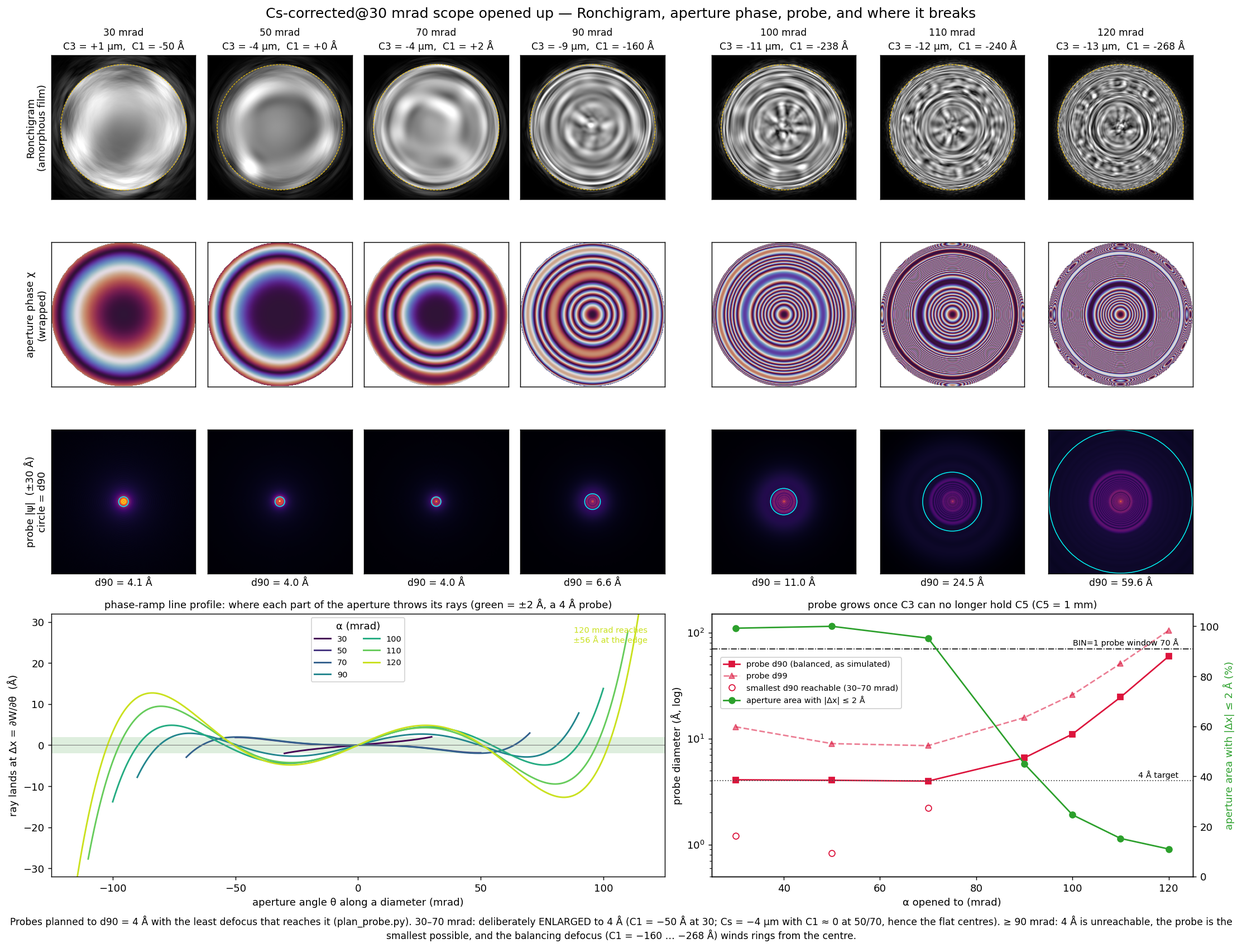
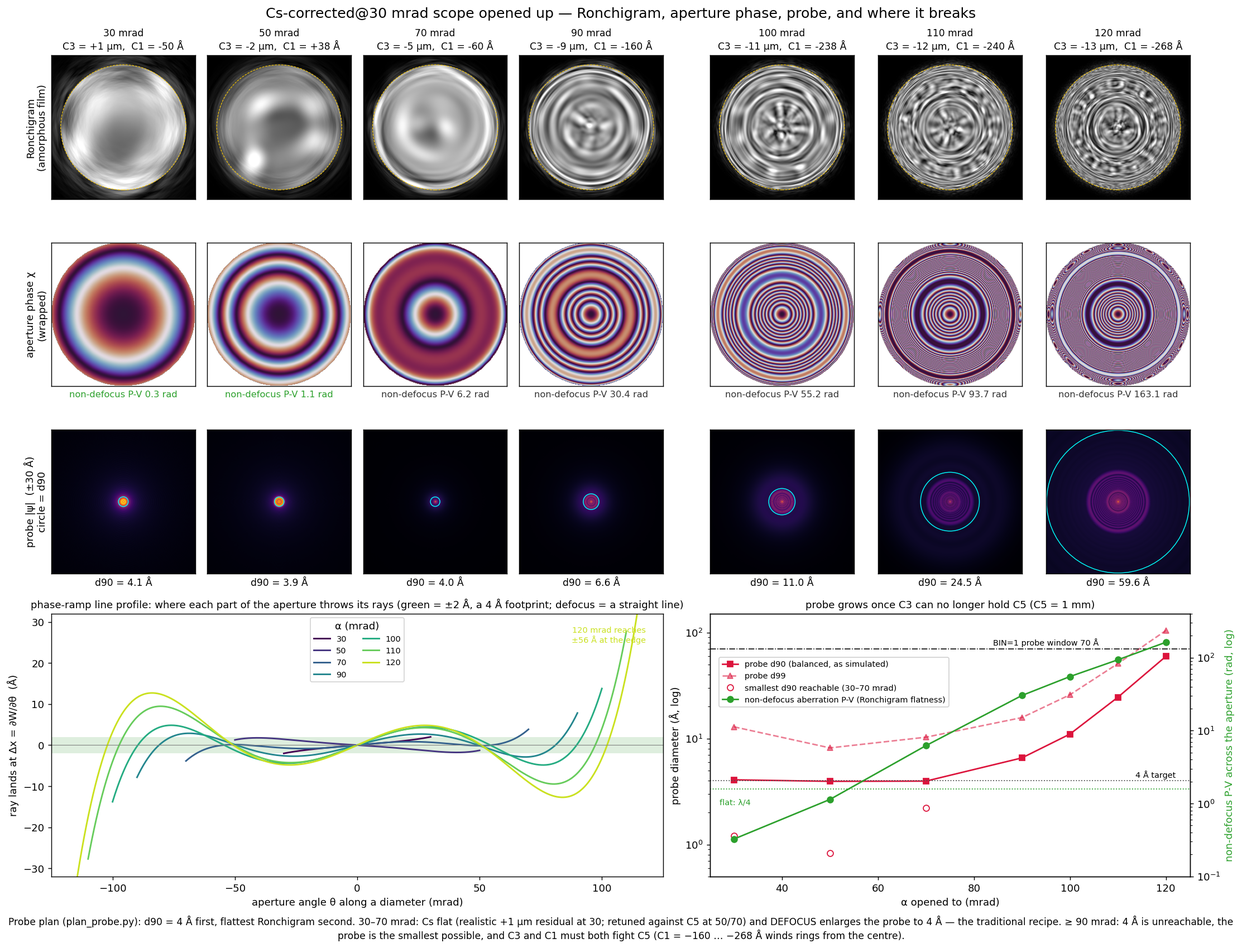
[campaign] probe plan: defocus spreads the low-alpha probes, Cs kept flat
The planner ranked every alpha by "4 A, then least defocus, then least Cs", so
at 50/70 mrad Cs (-4 um, C1 ~ 0) did the enlarging -- the opposite of how an
operator sets up a Cs-corrected probe. New objective: d90 = 4 A first, the
flattest Ronchigram second. Flatness = P-V of the NON-defocus aberration
(C3 theta^4 + C5 theta^6 minus its best-fit theta^2) across the aperture, flat
<= lambda/4. Where 4 A is reachable (the free regime, 30-70 mrad): keep Cs at a
realistic +1 um corrector residual if that is already flat, else the flattest
1 um step against C5, and spread the probe with DEFOCUS alone. Where it is not
(>= 90 mrad, the floor regime) the old search stands: C3 and C1 fight C5.

  a30  +1 um, -50 A   unchanged (already traditional)  0.33 rad, flat
  a50  -4 um,   0 A -> -2 um, +38 A                    2.34 -> 1.14 rad, flat
  a70  -4 um,  +2 A -> -5 um, -60 A                    8.23 -> 6.23 rad (flattest)
  a90-a120 byte-identical (the a110 run in flight stays valid)

Also: the remeasure box 60 -> 140 A (a120 d99 ~105 A wrapped a 60 A box; its
d90 read 46.8, converged ~60), float64 enclosed-energy cumsum (float32 over 4M
px never reached 0.99), a WINDOW flag when d99 exceeds the 70 A BIN=1 window,
flat_pv appended as the LAST tsv column (shell readers take leading columns by
position), and the a30 skip comment regenerated by the planner.

make_ronchigram_fig.py reads its probes from round_sweep.tsv and its flatness
[…]

diff --git a/campaign/plan_probe.py b/campaign/plan_probe.py
@@ -4,25 +4,63 @@
 Physics: the microscope carries a FIXED residual C5 = 1 mm (5th-order spherical, the
 uncorrectable leftover of a C3-corrector). As you open the aperture alpha, its effect
 grows as alpha^6. To keep the probe a constant ~4 Å (one unit cell) — so probe size,
-overlap and scan step are held fixed and alpha is the ONLY variable — we balance it with
-two knobs, exactly as an operator would:
-    C3  (Cs)  = COARSE knob, quantised to 1 µm   (a negative Cs bends the mid-aperture)
-    C1  (defocus) = FINE knob                     (brings the balanced disc to 4 Å)
-One alpha^2 knob (C1) cannot flatten alpha^6 across the whole aperture, hence the C3 coarse
-knob; see run_thin_aberration.sh. This script grid-searches (C3 @1µm, C1 fine) to land the
-90%-enclosed probe diameter d90 on TARGET Å, and also reports the aberration-FREE defocus
-(df_perf) that makes a matched 4 Å reference probe at each alpha.
+overlap and scan step are held fixed and alpha is the ONLY variable — the operator has two
+knobs: C3 (Cs, quantised to 1 µm) and C1 (defocus, fine).
 
-Run LOCALLY (needs abtem); commit the .tsv it writes. run_campaign.sh reads that .tsv.
+Objective, in priority order (as an operator sets up a Cs-corrected scope):
+  1. d90 = TARGET (4 Å).
+  2. the flattest Ronchigram that allows it. Flatness = peak-to-valley of the NON-DEFOCUS
+     aberration phase across the aperture (C3 theta^4 + C5 theta^6 after removing its best-fit
+     theta^2 part): a pure-defocus Ronchigram is a uniform-magnification shadow, which is what an
+     operator calls flat. "Flat" = <= pi/2 (lambda/4, Rayleigh).
+Two regimes follow:
+  * FREE (4 Å reachable; low alpha): the traditional recipe. Keep Cs at a realistic corrector
+    residual (CS_RESID, +1 µm) if that is already flat; otherwise retune Cs to the flattest
+    setting. Then spread the probe to 4 Å with DEFOCUS alone.
+  * FLOOR (4 Å unreachable; high alpha): no freedom -- C3 and C1 must both fight C5 for the
+    smallest probe. Grid-search (C3 @1µm around the ray-edge cancel, C1 fine), rank by d90.
+The pre-2026-09-11 planner used the FLOOR ranking everywhere with a least-defocus tie-break,
+which at 50/70 mrad made Cs (-4 µm, C1 ~ 0) do the enlarging -- the opposite of the recipe.
+Also reports the aberration-FREE defocus (df_perf) for a matched 4 Å reference probe.
+
+Run LOCALLY (needs abtem); commit the .tsv it writes. run_campaign.sh / run_thin_atomfind.sh
+read it by leading column position; flat_pv is appended last.
     ~/hyperspy-bundle/bin/python campaign/plan_probe.py
 """
 import argparse, numpy as np, sys
 
+LAM = 0.0196877              # 300 keV electron wavelength [Å]
+CS_RESID_UM = 1              # realistic Cs-corrector residual (µm): kept if it is already flat
+FLAT_TOL = np.pi / 2         # non-defocus phase P-V (rad) counted as a flat Ronchigram (lambda/4)
+BIN1_WINDOW = 1426 * 0.0492  # BIN=1 recon probe window (Å); a probe with d99 beyond it cannot fit
+# rows written commented-out, with the reason (kept here so a re-plan does not lose it)
+SKIP = {30: ["a030 SKIPPED: at 30 mrad the BF disc fills only ~15% of the 200 mrad detector -> the recon is",
+             "noise-dominated even with the KNOWN probe (lattice peak/bg 2.6 vs 100+ at >=50), and NL=1 carries",
+             "no depth info. Fixing it needs a low-alpha detector crop, not a probe change. Uncomment to include."]}
+
+
+def nondefocus_pv(alpha, C3, C5):
+    """Peak-to-valley (rad) of the aberration phase across the aperture after removing its
+    best-fit piston + defocus (theta^2) part, area-weighted. Independent of the C1 applied."""
+    th = np.linspace(0, alpha / 1000.0, 600); sw = np.sqrt(th)
+    W = C3 * th**4 / 4 + C5 * th**6 / 6
+    A = np.c_[np.ones_like(th), th**2]
+    coef = np.linalg.lstsq(A * sw[:, None], W * sw, rcond=None)[0]
+    r = W - A @ coef
+    return 2 * np.pi / LAM * (r.max() - r.min())
+
+
+def flat_c3_um(alpha, C5):
+    """The FREE-regime Cs: the realistic residual if already flat, else the flattest 1 µm step."""
+    if nondefocus_pv(alpha, CS_RESID_UM * 1e4, C5) <= FLAT_TOL:
+        return CS_RESID_UM
+    return min(range(-20, 6), key=lambda c: nondefocus_pv(alpha, c * 1e4, C5))
+
 def sizes(P, ext):
-    I = np.abs(P)**2; dx = ext/P.shape[0]
-    In = I/I.sum(); c = np.unravel_index(I.argmax(), I.shape); yy,xx = np.indices(I.shape)
+    I = (np.abs(P)**2).astype(np.float64); dx = ext/P.shape[0]   # float64: a float32 cumsum over
+    In = I/I.sum(); c = np.unravel_index(I.argmax(), I.shape); yy,xx = np.indices(I.shape)  # 4M px never reaches 0.99
     r = np.hypot(yy-c[0], xx-c[1])*dx; o = np.argsort(r.ravel()); cs = np.cumsum(In.ravel()[o])
-    d = lambda q: 2*r.ravel()[o][np.searchsorted(cs, q)]
+    d = lambda q: 2*r.ravel()[o][min(np.searchsorted(cs, q), cs.size - 1)]
     fwhm = 2*np.sqrt((I >= 0.5*I.max()).sum()*dx*dx/np.pi)
     return fwhm, d(0.5), d(0.9), d(0.99)
 
@@ -48,9 +86,11 @@ def plan(alphas, C5, target, thick, out):
     import abtem
     try: abtem.config.set({"local_diagnostics.progress_bar": False})
     except Exception: pass
-    LAM = 0.0196877                   # 300 keV electron wavelength [Å]; depth res = LAM/alpha^2
+    # depth res = LAM/alpha^2
     EXT_S, N_S = 30.0, 512            # fast search grid (maxk 8.5 A^-1 covers <=168 mrad)
-    EXT_M, N_M = 60.0, 1024           # high-quality remeasure of the winner (captures tails)
+    # remeasure box: 140 Å (was 60) -- a110's d99 is 51 Å and a120's ~105 Å; a 60 Å box wraps the
+    # tails and under-reports both (a120 d90 read 46.8 Å, converged ~60 Å)
+    EXT_M, N_M = 140.0, 2048
     rows = []
     for a in alphas:
         edge = round(-C5*(a/1000.0)**2 / 1e4)                 # ray-edge C3 cancel, in µm
@@ -66,13 +106,28 @@ def plan(alphas, C5, target, thick, out):
             if pick is None or key < pick[0]:
                 pick = (key, c3um, C1, d90)
         c3um, C1 = pick[1], pick[2]
+        regime = "floor"
+        if abs(pick[3] - target) < 0.6:
+            # FREE regime: 4 Å is reachable, so use the traditional recipe -- Cs flat (realistic
+            # residual if possible), DEFOCUS spreads the probe. Falls back to the pick if the flat
+            # Cs cannot reach the target (never seen, but the target is the primary objective).
+            fc3 = flat_c3_um(a, C5)
+            fC1, fd90 = best_c1(abtem, a, fc3 * 1e4, C5, target, EXT_S, N_S)
+            if abs(fd90 - target) < 0.6:
+                c3um, C1, regime = fc3, fC1, "free"
+        pv = nondefocus_pv(a, c3um * 1e4, C5)
         # high-quality remeasure of the chosen aberrated probe + the matched perfect probe
         fw,d50,d90,d99 = sizes(build(abtem, a, c3um*1e4, C1, C5, EXT_M, N_M), EXT_M)
         # aberration-free 4 Å reference: defocus only, C3=C5=0
         dfp, dfp_d90 = best_c1(abtem, a, 0.0, 0.0, target, EXT_S, N_S)
         # window sizing: BIN4=17.5 Å, BIN2=35 Å, BIN1=70 Å real-space window
         binf = 4 if d99 < 15 else (2 if d99 < 31 else 1)
-        note = "ok" if abs(d90-target) < 0.6 else "FLOOR>%.1f" % d90
+        if abs(d90-target) < 0.6:
+            note = "ok:" + ("flat" if pv <= FLAT_TOL else "flattest") if regime == "free" else "ok"
+        else:
+            note = "FLOOR>%.1f" % d90
+        if d99 > BIN1_WINDOW:
+            note += "|WINDOW:d99>%.0fA" % BIN1_WINDOW
         # Depth sampling: recon at NL layers = Nyquist of the depth resolution LAM/alpha^2
         # (slice = depthres/2). The sim slab is a fixed 0.9 A (< the ~1.94 A plane spacing, run_campaign
         # SLICE default) so the GROUND TRUTH always resolves the planes and only alpha + NL decide
@@ -81,17 +136,24 @@ def plan(alphas, C5, target, thick, out):
         nl = max(1, round(thick / (depthres/2.0)))
         rows.append(dict(label="a%03d"%a, alpha=a, c5=C5, c3=c3um*1e4, c1=float(C1),
                          df_perf=float(dfp), bin=binf, nl=nl, aber_json="-",
-                         d50=d50, d90=d90, d99=d99, note=note))
-        print(f"  alpha={a:3d}  C3={c3um:+3d}um  C1={C1:+4.0f}A  d90={d90:.1f} BIN={binf}  "
-              f"depthres={depthres:.1f}A -> NL={nl} (dz {thick/nl:.2f}A)  [{note}]", flush=True)
-    # write tsv
-    cols = ["label","alpha","c5","c3","c1","df_perf","bin","nl","aber_json","d50","d90","d99","note"]
+                         d50=d50, d90=d90, d99=d99, note=note, flat_pv=round(pv, 2)))
+        print(f"  alpha={a:3d}  C3={c3um:+3d}um  C1={C1:+4.0f}A  d90={d90:.1f} d99={d99:.1f} BIN={binf}  "
+              f"non-defocus P-V {pv:.2f} rad  [{regime}; {note}]", flush=True)
+    # write tsv (flat_pv LAST: the shell readers take leading columns by position)
+    cols = ["label","alpha","c5","c3","c1","df_perf","bin","nl","aber_json","d50","d90","d99","note","flat_pv"]
     with open(out, "w") as f:
         f.write("# round alpha-sweep probe plan | C5=%.3g A (1mm) | target d90=%.1f A\n" % (C5, target))
         f.write("# alpha=semiangle(mrad) c3=C30/Cs(A) c1=defocus(A) df_perf=aberr-free 4A defocus(A)\n")
+        f.write("# low alpha (note ok:flat/ok:flattest): Cs flat (residual +%d um if flat), DEFOCUS spreads to 4 A;\n"
+                "# FLOOR: 4 A unreachable, C3+C1 fight C5. flat_pv = non-defocus aberration P-V (rad), flat <= pi/2\n"
+                % CS_RESID_UM)
         f.write("\t".join(cols)+"\n")
         for r in rows:
-            f.write("\t".join(str(r[c]) for c in cols)+"\n")
+            line = "\t".join(str(r[c]) for c in cols)
+            if r["alpha"] in SKIP:
+                f.write("".join(f"# {s}\n" for s in SKIP[r["alpha"]]) + "#" + line + "\n")
+            else:
+                f.write(line + "\n")
     print("wrote", out)
 
 if __name__ == "__main__":

diff --git a/analysis/make_ronchigram_fig.py b/analysis/make_ronchigram_fig.py
@@ -9,12 +9,12 @@ aperture edge at 50 mrad, ~1600 rad at 120); the operator retunes Cs (C3) + defo
 (C3, C1) of campaign/round_sweep.tsv -- to keep the PROBE compact (the criterion ptycho needs; it
 recovers the phase itself, so a flat Scherzer chi is not required).
 
-Probe plan (campaign/plan_probe.py): every alpha is balanced to d90 = 4 A, choosing the LEAST
-defocus that achieves it. So at 30 mrad C1 = -50 A enlarges the probe; at 50/70 mrad C1 ~ 0 and
-Cs = -4 um enlarges it (the smallest reachable probe is far smaller, see the bottom-right panel)
--- chi then starts as theta^4, which is why those Ronchigrams have large flat centres. From 90 mrad
-4 A is unreachable: the probe is the smallest possible and needs C1 = -160..-268 A to balance C3
-against C5 -- a theta^2 term that winds phase from the very centre (the bullseye rings).
+Probe plan (campaign/plan_probe.py, read from round_sweep.tsv): d90 = 4 A first, the flattest
+Ronchigram second. Where 4 A is reachable (30-70 mrad) that is the traditional recipe: Cs flat --
+the realistic +1 um corrector residual at 30, retuned to the flattest step against C5 at 50/70 --
+and DEFOCUS spreads the probe to 4 A (the smallest reachable probe is far smaller; bottom right).
+From 90 mrad 4 A is unreachable: the probe is the smallest possible and needs C1 = -160..-268 A to
+balance C3 against C5 -- a theta^2 term that winds phase from the very centre (the bullseye rings).
 
 Rows, one column per alpha:
   1. simulated Ronchigram -- probe x thin amorphous film, far-field intensity (what the operator
@@ -26,8 +26,9 @@ Bottom:
            the ray through aperture angle theta lands. The probe is compact only where rays land
            within ~+-2 A (the 4 A target band).
   right -- probe d90 and d99 vs alpha (converged 140 A box), the 4 A target, the smallest probe
-           reachable at 30-70 mrad, the 70 A BIN=1 probe window, and the fraction of the aperture
-           whose rays land inside +-2 A.
+           reachable at 30-70 mrad, the 70 A BIN=1 probe window, and Ronchigram flatness: the
+           NON-defocus aberration P-V across the aperture (plan_probe.nondefocus_pv), flat <= lambda/4.
+  Each chi panel carries its non-defocus P-V (green = flat).
 
 History: the pre-2026-09-11 version built probes in a 30 A box (d90 20.7/26.1 A at 110/120 mrad,
 really 24.5 / >47 A) and plotted a "flat-to-pi/4 aperture" measured against a running minimum,
@@ -41,9 +42,34 @@ from matplotlib.patches import Circle
 from scipy.ndimage import gaussian_filter
 
 LAM = 0.0196877; C5 = 1e7                       # 300 keV wavelength [A]; fixed 5th-order residual (1 mm)
-# (alpha_mrad, C3_A, C1_A) balanced probes -- from campaign/round_sweep.tsv (a30 = its commented row)
-PTS = [(30, 1e4, -50), (50, -4e4, 0), (70, -4e4, 2), (90, -9e4, -160), (100, -11e4, -238),
-       (110, -12e4, -240), (120, -13e4, -268)]
+TSV = os.path.join(os.path.dirname(os.path.abspath(__file__)), "..", "campaign", "round_sweep.tsv")
+
+
+def load_plan(path=TSV):
+    """(alpha_mrad, C3_A, C1_A) per planned probe, read from the planner's tsv -- including its
+    commented-out rows (a30), which are skipped by the campaigns but belong on this figure.
+    Read rather than hard-coded so the figure can never drift from the probes actually simulated."""
+    import re
+    pts = []
+    for line in open(path):
+        if re.match(r"#?a\d{3}\t", line):
+            f = line.lstrip("#").rstrip("\n").split("\t")
+            pts.append((int(f[1]), float(f[3]), float(f[4])))
+    return sorted(pts)
+
+
+PTS = load_plan()
+
+
+def _planner():
+    """campaign/plan_probe.py, for its flatness metric -- shared so figure and plan cannot disagree."""
+    import importlib.util
+    p = os.path.join(os.path.dirname(os.path.abspath(__file__)), "..", "campaign", "plan_probe.py")
+    s = importlib.util.spec_from_file_location("plan_probe", p); m = importlib.util.module_from_spec(s)
+    s.loader.exec_module(m); return m
+
+
+PLAN = _planner()
 L_BOX, N_BOX = 140.0, 2048                      # converged probe box: holds a110's d99 (51 A) with margin
 WINDOW_BIN1 = 1426 * 0.0492                     # BIN=1 recon probe window (Ndp x dx) ~ 70 A
 BAND = 2.0                                      # +-A: rays landing inside make a ~4 A probe
@@ -97,11 +123,6 @@ def ronchigram(P, L, a, rng):
     return np.sqrt(R[c - h:c + h, c - h:c + h]), h * px
 
 
-def aperture_fraction(a, C3, C1):
-    th = np.linspace(0, a / 1000, 4000); m = np.abs(ray_dx(C3, C1, th)) <= BAND
-    return (th * m).sum() / th.sum()                      # area-weighted (annulus ~ theta dtheta)
-
-
 def main():
     try: abtem.config.set({"local_diagnostics.progress_bar": False})
     except Exception: pass
@@ -127,6 +148,9 @@ def main():
         ax = fig.add_subplot(gs[1, j])
         ax.imshow(np.angle(np.exp(1j * ch)), cmap="twilight", vmin=-np.pi, vmax=np.pi, extent=[-a, a, -a, a])
         ax.set_xticks([]); ax.set_yticks([])
+        pv = PLAN.nondefocus_pv(a, C3, C5)
+        ax.set_xlabel(f"non-defocus P-V {pv:.1f} rad", fontsize=9,
+                      color="tab:green" if pv <= PLAN.FLAT_TOL else "0.2")
         if j == 0: ax.set_ylabel("aperture phase χ\n(wrapped)", fontsize=10)
 
         ax = fig.add_subplot(gs[2, j]); h = int(round(30 / (L_BOX / N_BOX))); c = np.unravel_index(np.abs(P).argmax(), P.shape)
@@ -148,7 +172,7 @@ def main():
     axr.set_xlabel("aperture angle θ along a diameter (mrad)")
     axr.set_ylabel("ray lands at Δx = ∂W/∂θ  (Å)")
     axr.set_title("phase-ramp line profile: where each part of the aperture throws its rays "
-                  f"(green = ±{BAND:.0f} Å, a 4 Å probe)", fontsize=10)
+                  f"(green = ±{BAND:.0f} Å, a 4 Å footprint; defocus = a straight line)", fontsize=10)
     axr.legend(title="α (mrad)", fontsize=8, ncol=2, loc="upper center")
     axr.text(118, 29, "120 mrad reaches\n±56 Å at the edge", ha="right", va="top", fontsize=8, color=cols[-1])
 
@@ -162,28 +186,33 @@ def main():
                  label="smallest d90 reachable (30–70 mrad)")
     axs.axhline(4.0, color="0.3", ls=":", lw=1); axs.text(122, 4.3, "4 Å target", ha="right", fontsize=8)
     axs.axhline(WINDOW_BIN1, color="k", ls="-.", lw=0.9)
-    axs.text(122, WINDOW_BIN1 * 1.08, f"BIN=1 probe window {WINDOW_BIN1:.0f} Å", ha="right", fontsize=8)
+    axs.text(84, WINDOW_BIN1 * 1.08, f"BIN=1 probe window {WINDOW_BIN1:.0f} Å", ha="left", fontsize=8)
     axs.set_ylim(0.5, 150); axs.set_xlim(25, 125)
     axs.set_xlabel("α opened to (mrad)"); axs.set_ylabel("probe diameter (Å, log)")
+    # Ronchigram flatness = the NON-defocus aberration (defocus only changes the shadow magnification
+    # uniformly), the quantity the planner optimises. (An "aperture within +-2 A" measure would
+    # penalise the intended defocus spreading itself.)
     ax2 = axs.twinx()
-    ax2.plot(al, [100 * aperture_fraction(*p) for p in PTS], "o-", color="tab:green",
-             label=f"aperture area with |Δx| ≤ {BAND:.0f} Å")
-    ax2.set_ylim(0, 105); ax2.set_ylabel(f"aperture area with |Δx| ≤ {BAND:.0f} Å (%)", color="tab:green")
+    ax2.semilogy(al, [PLAN.nondefocus_pv(*p[:2], C5) for p in PTS], "o-", color="tab:green",
+                 label="non-defocus aberration P-V (Ronchigram flatness)")
+    ax2.axhline(PLAN.FLAT_TOL, color="tab:green", ls=":", lw=1)
+    ax2.text(27, PLAN.FLAT_TOL * 0.62, "flat: λ/4", color="tab:green", fontsize=8)
+    ax2.set_ylim(0.1, 400); ax2.set_ylabel("non-defocus P-V across the aperture (rad, log)", color="tab:green")
     h1, l1 = axs.get_legend_handles_labels(); h2, l2 = ax2.get_legend_handles_labels()
     axs.legend(h1 + h2, l1 + l2, fontsize=8, loc="upper left", bbox_to_anchor=(0.01, 0.85), framealpha=0.85)
     axs.set_title("probe grows once C3 can no longer hold C5 (C5 = 1 mm)", fontsize=10)
     for a in small:
         print(f"a{a}: smallest reachable d90 {small[a][0]:.2f} A at C3 {small[a][1]/1e4:+.0f} um, C1 {small[a][2]:+d} A")
     for (a, C3, C1), d90, d99 in zip(PTS, d90s, d99s):
-        print(f"a{a}: d90 {d90:.1f} A, d99 {d99:.1f} A, aperture within +-{BAND:.0f} A: {100*aperture_fraction(a, C3, C1):.0f}%")
+        print(f"a{a}: d90 {d90:.1f} A, d99 {d99:.1f} A, non-defocus P-V {PLAN.nondefocus_pv(a, C3, C5):.2f} rad")
 
     fig.suptitle("Cs-corrected@30 mrad scope opened up — Ronchigram, aperture phase, probe, "
                  "and where it breaks", fontsize=14)
     fig.text(0.5, -0.005,
-             "Probes planned to d90 = 4 Å with the least defocus that reaches it (plan_probe.py). 30–70 mrad: "
-             "deliberately ENLARGED to 4 Å (C1 = −50 Å at 30; Cs = −4 µm with C1 ≈ 0 at 50/70, hence the flat "
-             "centres). ≥ 90 mrad: 4 Å is unreachable, the probe is the smallest possible, and the balancing "
-             "defocus (C1 = −160 … −268 Å) winds rings from the centre.",
+             "Probe plan (plan_probe.py): d90 = 4 Å first, flattest Ronchigram second. 30–70 mrad: Cs flat "
+             "(realistic +1 µm residual at 30; retuned against C5 at 50/70) and DEFOCUS enlarges the probe to 4 Å — "
+             "the traditional recipe. ≥ 90 mrad: 4 Å is unreachable, the probe is the smallest possible, and C3 "
+             "and C1 must both fight C5 (C1 = −160 … −268 Å winds rings from the centre).",
              ha="center", va="top", fontsize=9.5, wrap=True)
     p = os.path.join(week_dir("figs"), "ronchigram_evolution.png")
     fig.savefig(p, dpi=130, bbox_inches="tight"); print("wrote", p)

diff --git a/aberration_experiment/HANDOVER.md b/aberration_experiment/HANDOVER.md
@@ -28,12 +28,26 @@ C1(defocus) — the `campaign/round_sweep.tsv` balance — to keep the probe com
 - **Ronchigram/probe evolution**: `figs/2026-W37/ronchigram_evolution.png` (rebuilt 2026-09-11:
   simulated Ronchigrams, wrapped χ, probe, phase-ramp profiles Δx = ∂W/∂θ, probe size vs α). Probe
   d90 held at the 4 Å TARGET to 70 mrad, then 6.6 / 11.0 / 24.5 / ~60 Å at 90/100/110/120 (converged
-  140 Å box — the old figure's 21/26 Å at 110/120 came from a 30 Å box). Aperture area whose rays
-  land within ±2 Å: 99/100/95% → 45/25/15/11%. **30–70 mrad probes are deliberately ENLARGED** to
-  4 Å (smallest reachable 1.2/0.8/2.2 Å; `plan_probe.py` targets 4 Å with the least defocus, so
-  C1 ≈ 0 and Cs does it at 50/70 — hence their flat Ronchigram centres). ≥90 mrad needs balancing
-  defocus C1 = −160…−268 Å (the bullseye rings). **a120 is not simulable**: d99 ≈ 105 Å > the 70 Å
-  BIN=1 window; a110 (d99 51 Å) is tight but valid.
+  140 Å box — the old figure's 21/26 Å at 110/120 came from a 30 Å box). **a120 is not simulable**:
+  d99 ≈ 105 Å > the 70 Å BIN=1 window; a110 (d99 51 Å) is tight but valid. The figure reads its probes
+  from `round_sweep.tsv` and its flatness metric from `plan_probe.py`, so it cannot drift from the plan.
+- **Probe plan REVISED 2026-09-11 (user): the traditional recipe at low α.** Objective: d90 = 4 Å
+  first, flattest Ronchigram second. Flatness = P-V of the NON-defocus aberration (C3θ⁴ + C5θ⁶ minus
+  its best-fit θ²) across the aperture; flat ≤ λ/4 (π/2 rad). Where 4 Å is reachable (30–70 mrad,
+  the "free" regime; smallest reachable 1.2/0.8/2.2 Å) the probe is deliberately ENLARGED by
+  **defocus**, with Cs kept flat: the realistic +1 µm corrector residual if already flat, else the
+  flattest 1 µm step against C5. Where it is not (≥90, "floor"), C3 and C1 both fight C5 as before.
+
+  | α | old (Cs, C1) | new (Cs, C1) | non-defocus P-V |
+  |---|---|---|---|
+  | 30 | +1 µm, −50 Å | +1 µm, −50 Å (unchanged — already traditional) | 0.33 rad, flat |
+  | 50 | −4 µm, 0 Å (Cs enlarged it) | **−2 µm, +38 Å** | 2.34 → **1.14 rad, flat** |
+  | 70 | −4 µm, +2 Å | **−5 µm, −60 Å** | 8.23 → 6.23 rad (flattest possible; C5 dominates) |
+  | ≥90 | unchanged | unchanged (floor) | 30 / 55 / 94 / 163 rad |
+
+  a50/a70 therefore need re-simulating (all three legs); a90–a120 rows are byte-identical, so the
+  running a110 stays valid. The old plan's tie-break ("least defocus, then least Cs") is what had
+  made Cs do the enlarging.
 - **`round_depth.png` rows a110/a120 are a RECONSTRUCTION failure, not the aberration break** — do not
   cite them. Their "diamonds" have a depth period of exactly 2 slices (1.67 Å at NL14, the layer
   grid's Nyquist; the physical AO/BO₂ period 1.95 Å is a different Fourier bin): the odd/even-layer
@@ -118,7 +132,7 @@ All fixes in (bugs 1–7), S1 kernels, `~/Desktop/thin_ab_af2/out/atomfind_a*`
 
 | α | dz (Å) | prec | recall bulk Pb / Ti / O | xy-RMS | z-RMS | species confusion |
 |---|---|---|---|---|---|---|
-| 50 | 3.93 | 0.90 | 57 / 40 / 58% | 0.12 Å | 1.17 Å | 16.6% ⚠ unreliable |
+| 50 | 3.93 | 0.90 | 57 / 40 / 58% | 0.12 Å | 1.17 Å | 16.6% ⚠ — OLD Cs-enlarged probe; re-sim pending |
 | 70 | 1.97 | — | — | — | — | lab recon pending (see In flight) |
 | 90 | 1.20 | **0.94** | **95 / 94 / 95%** | **0.03 Å** | **0.37 Å** | 0.0% |
 | 100 | 0.98 | **0.99** | **96 / 94 / 88%** | **0.03 Å** | **0.45 Å** | 3.1% |
@@ -155,12 +169,12 @@ CSV in `results/2026-W37/`; collator `analysis/collate_atomfind_depth.py`.
   `ALPHAS="50 90 100" MODES=lab RECON_ONLY=1 bash campaign/run_thin_atomfind.sh`. a70/a110 are clean.
 
 ## IN FLIGHT / TO RUN
-- **a70 lab recon** — the only missing point. Degenerate original (`|obj|` collapses to 8e-4 in
-  patches → inf/NaN in the v1-spike baseline); the damped re-run 1272524 died on bug 6. Re-run via
-  the driver (absolute paths, reuses the existing sim):
-  `ALPHAS=70 MODES=lab RECON_ONLY=1 BETA_LSQ=0.05 bash campaign/run_thin_atomfind.sh`
-  then pull just its h5 (`recon_af_a70_lab_NL14/analysis/S00000-00999/S00001/*_recons.h5`).
-  The a70 S1 kernels are already extracted and clean.
+- **a110** (1273379–1273385): lab + kernels + pack, BIN=1, plan unchanged by the revision.
+- **a50 + a70 — re-simulate with the revised probes** (all legs; supersedes the old a70 lab re-run
+  1273358, which must be cancelled first if still running — `OVERWRITE=1` rewrites the sim it reads):
+  `ALPHAS="50 70" OVERWRITE=1 bash campaign/run_thin_atomfind.sh` (driver defaults = S1 grid,
+  BETA_LSQ 0.05 on every leg, so a50/a70 come out strictly byte-identical). Then re-extract their
+  kernels (`--zdrop 1` / `2`) and re-run atomfind.
 
 ## Next steps
 0. ~~Check the PX915 report's NL70 registration for the bug-7 alias~~ CHECKED 2026-09-11: NOT
@@ -168,9 +182,11 @@ CSV in `results/2026-W37/`; collator `analysis/collate_atomfind_depth.py`.
    per-atom OFF = +0.22 Å — agree to 0.14 Å, no one-cell alias. The 18-cell columns keep several
    teeth per fragment and that recon has no in-volume vacuum band; the alias is specific to the
    thin 5-cell full-box geometry.
-1. a70: pull the lab h5 → `run_atomfind.py --preset thin --recon <h5> --dz 1.966 --data-dir
-   ~/Desktop/thin_ab_af/gtdata --single-atom-vol .../psf_Pb_a70_vol.npy --ti-kernel-vol
-   .../psf_Ti_a70_vol.npy --out ~/Desktop/thin_ab_af2/out/atomfind_a70`, then re-collate all four.
+1. a50/a70 (revised probes): pull the tarball, extract kernels (`extract_psf.py ... --zdrop 1` at
+   a50, `2` at a70), run `run_atomfind.py --preset thin --recon <lab h5> --dz 3.932|1.966 --data-dir
+   ~/Desktop/thin_ab_af/gtdata --single-atom-vol .../psf_Pb_a<A>_vol.npy --ti-kernel-vol
+   .../psf_Ti_a<A>_vol.npy --out ~/Desktop/thin_ab_af2/out/atomfind_a<A>`, then re-collate and
+   re-render (`collate_atomfind_depth.py`, `make_mep_volumes_fig.py`).
 2. **a110** (BIN=1, NL=34; heavy — 175G, GROUPING=16, 24 h): tests the break the a100 dip hints at.
    `ALPHAS=110 bash campaign/run_thin_atomfind.sh` (lab + kernels in one go; the driver now defaults
    to the validated S1 grid, `WIN=20 GRIDSP=3`). **a120 is probably not simulable**: the planner put
